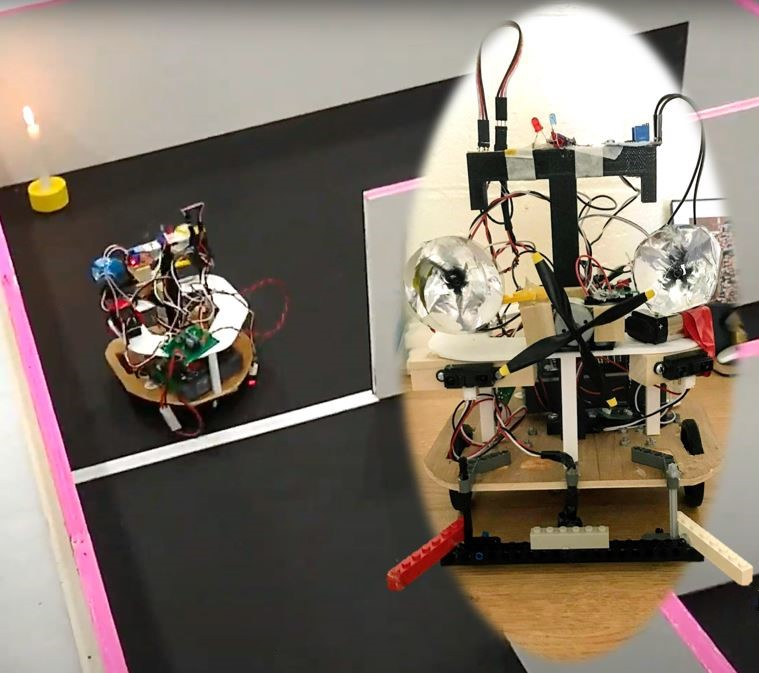
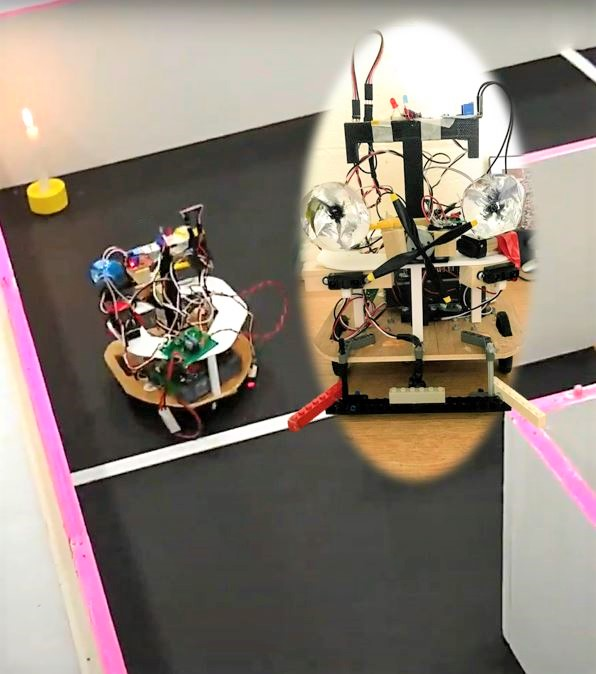
working on inputing image

diff --git a/assets/css/main.css b/assets/css/main.css
@@ -4751,9 +4751,9 @@ body.is-touch #banner {
 		opacity: 0;
 	}
 
-/* Spotlight (style1) */
+/* Spotlight (style12) */
 
-	.spotlight.style1 {
+	.spotlight.style12 {
 		-moz-align-items: -moz-stretch;
 		-webkit-align-items: -webkit-stretch;
 		-ms-align-items: -ms-stretch;
@@ -4775,7 +4775,7 @@ body.is-touch #banner {
 		text-align: left;
 	}
 
-		.spotlight.style1 .content {
+		.spotlight.style12 .content {
 			padding: 7rem 7rem 5rem 7rem ;
 			-moz-align-self: center;
 			-webkit-align-self: center;
@@ -4789,12 +4789,12 @@ body.is-touch #banner {
 			-webkit-flex-shrink: 1;
 			-ms-flex-shrink: 1;
 			flex-shrink: 1;
-			width: 45%;
+			width: 70%;
 			max-width: 64rem;
 			margin: 0 auto;
 		}
 
-		.spotlight.style1 .image {
+		.spotlight.style12 .image {
 			-moz-flex-grow: 0;
 			-webkit-flex-grow: 0;
 			-ms-flex-grow: 0;
@@ -4803,12 +4803,12 @@ body.is-touch #banner {
 			-webkit-flex-shrink: 0;
 			-ms-flex-shrink: 0;
 			flex-shrink: 0;
-			width: 55%;
+			width: 30%;
 			min-width: 25rem;
 			border-radius: 0;
 		}
 
-			.spotlight.style1 .image img {
+			.spotlight.style12 .image img {
 				-moz-object-fit: cover;
 				-webkit-object-fit: cover;
 				-ms-object-fit: cover;
@@ -4828,7 +4828,7 @@ body.is-touch #banner {
 
 		@media screen and (max-width: 1680px) {
 
-			.spotlight.style1 .content {
+			.spotlight.style12 .content {
 				padding: 5rem 5rem 3rem 5rem ;
 			}
 
@@ -4836,7 +4836,7 @@ body.is-touch #banner {
 
 		@media screen and (max-width: 1280px) {
 
-			.spotlight.style1 .content {
+			.spotlight.style12 .content {
 				padding: 4rem 4rem 2rem 4rem ;
 			}
 
@@ -4844,13 +4844,13 @@ body.is-touch #banner {
 
 		@media screen and (max-width: 980px) {
 
-			.spotlight.style1 .content {
+			.spotlight.style12 .content {
 				padding: 3.75rem 3rem 1.75rem 3rem ;
 				width: 50%;
 				min-width: 0;
 			}
 
-			.spotlight.style1 .image {
+			.spotlight.style12 .image {
 				width: 50%;
 				min-width: 0;
 			}
@@ -4859,7 +4859,7 @@ body.is-touch #banner {
 
 		@media screen and (max-width: 736px) {
 
-			.spotlight.style1 .content {
+			.spotlight.style12 .content {
 				padding: 2.5rem 2rem 0.5rem 2rem ;
 			}
 
@@ -4867,7 +4867,7 @@ body.is-touch #banner {
 
 	@media screen and (max-width: 736px) and (orientation: portrait) {
 
-		.spotlight.style1 {
+		.spotlight.style12 {
 			-moz-flex-direction: column-reverse;
 			-webkit-flex-direction: column-reverse;
 			-ms-flex-direction: column-reverse;
@@ -4875,21 +4875,21 @@ body.is-touch #banner {
 			text-align: center !important;
 		}
 
-			.spotlight.style1 .content {
+			.spotlight.style12 .content {
 				width: 100%;
 			}
 
-			.spotlight.style1 .image {
+			.spotlight.style12 .image {
 				width: 100%;
 			}
 
-				.spotlight.style1 .image img {
+				.spotlight.style12 .image img {
 					position: relative;
 				}
 
 	}
 
-		.spotlight.style1.orient-right {
+		.spotlight.style12.orient-right {
 			-moz-flex-direction: row-reverse;
 			-webkit-flex-direction: row-reverse;
 			-ms-flex-direction: row-reverse;
@@ -4898,7 +4898,7 @@ body.is-touch #banner {
 
 	@media screen and (max-width: 736px) and (orientation: portrait) {
 
-		.spotlight.style1.orient-right {
+		.spotlight.style12.orient-right {
 			-moz-flex-direction: column-reverse;
 			-webkit-flex-direction: column-reverse;
 			-ms-flex-direction: column-reverse;
@@ -4907,28 +4907,201 @@ body.is-touch #banner {
 
 	}
 
-		.spotlight.style1.content-align-center {
+		.spotlight.style12.content-align-center {
 			text-align: center;
 		}
 
-		.spotlight.style1.content-align-right {
+		.spotlight.style12.content-align-right {
 			text-align: right;
 		}
 
-		.spotlight.style1.image-position-left .image img {
+		.spotlight.style12.image-position-left .image img {
 			-moz-object-position: left;
 			-webkit-object-position: left;
 			-ms-object-position: left;
 			object-position: left;
 		}
 
+		.spotlight.style12.image-position-right .image img {
+			-moz-object-position: right;
+			-webkit-object-position: right;
+			-ms-object-position: right;
+			object-position: right;
+		}
+/* Spotlight (style1) */
+
+.spotlight.style1 {
+	-moz-align-items: -moz-stretch;
+	-webkit-align-items: -webkit-stretch;
+	-ms-align-items: -ms-stretch;
+	align-items: stretch;
+	display: -moz-flex;
+	display: -webkit-flex;
+	display: -ms-flex;
+	display: flex;
+	-moz-flex-direction: row;
+	-webkit-flex-direction: row;
+	-ms-flex-direction: row;
+	flex-direction: row;
+	-moz-justify-content: -moz-flex-end;
+	-webkit-justify-content: -webkit-flex-end;
+	-ms-justify-content: -ms-flex-end;
+	justify-content: flex-end;
+	position: relative;
+	overflow-x: hidden;
+	text-align: left;
+}
+
+	.spotlight.style1 .content {
+		padding:7rem 7rem 5rem 7rem ;
+		-moz-align-self: center;
+		-webkit-align-self: center;
+		-ms-align-self: center;
+		align-self: center;
+		-moz-flex-grow: 1;
+		-webkit-flex-grow: 1;
+		-ms-flex-grow: 1;
+		flex-grow: 1;
+		-moz-flex-shrink: 1;
+		-webkit-flex-shrink: 1;
+		-ms-flex-shrink: 1;
+		flex-shrink: 1;
+		width: 40%;
+		max-width: 64rem;
+		margin: 0 auto;
+	}
+
+	.spotlight.style1 .image {
+		-moz-flex-grow: 0;
+		-webkit-flex-grow: 0;
+		-ms-flex-grow: 0;
+		flex-grow: 0;
+		-moz-flex-shrink: 0;
+		-webkit-flex-shrink: 0;
+		-ms-flex-shrink: 0;
+		flex-shrink: 0;
+		width: 60%;
+		min-width: 25rem;
+		border-radius: 0;
+	}
+
+		.spotlight.style1 .image img {
+			-moz-object-fit: cover;
+			-webkit-object-fit: cover;
+			-ms-object-fit: cover;
+			object-fit: contain;
+			-moz-object-position: center;
+			-webkit-object-position: center;
+			-ms-object-position: center;
+			object-position: right;
+			position: absolute;
+			top: 0;
+			left: 0;
+			border-radius: 0;
+		}
+
+		@media screen and (max-width: 1680px) {
+
+			.spotlight.style1 .content {
+				padding: 5rem 5rem 3rem 5rem ;
+			}
+	
+		}
+	
+		@media screen and (max-width: 1280px) {
+	
+			.spotlight.style1 .content {
+				padding: 4rem 4rem 2rem 4rem ;
+			}
+	
+		}
+	
+		@media screen and (max-width: 980px) {
+	
+			.spotlight.style1 .content {
+				padding: 3.75rem 3rem 1.75rem 3rem ;
+				width: 50%;
+				min-width: 0;
+			}
+	
+			.spotlight.style1 .image {
+				width: 50%;
+				min-width: 0;
+			}
+	
+		}
+	
+		@media screen and (max-width: 736px) {
+	
+			.spotlight.style1 .content {
+				padding: 2.5rem 2rem 0.5rem 2rem ;
+			}
+	
+		}
+	
+	@media screen and (max-width: 736px) and (orientation: portrait) {
+	
+		.spotlight.style1 {
+			-moz-flex-direction: column-reverse;
+			-webkit-flex-direction: column-reverse;
+			-ms-flex-direction: column-reverse;
+			flex-direction: column-reverse;
+			text-align: center !important;
+		}
+	
+			.spotlight.style1 .content {
+				width: 100%;
+			}
+	
+			.spotlight.style1 .image {
+				width: 100%;
+			}
+	
+				.spotlight.style1 .image img {
+					position: relative;
+				}
+	
+	}
+	
+		.spotlight.style1.orient-right {
+			-moz-flex-direction: row-reverse;
+			-webkit-flex-direction: row-reverse;
+			-ms-flex-direction: row-reverse;
+			flex-direction: row-reverse;
+		}
+	
+	@media screen and (max-width: 736px) and (orientation: portrait) {
+	
+		.spotlight.style1.orient-right {
+			-moz-flex-direction: column-reverse;
+			-webkit-flex-direction: column-reverse;
+			-ms-flex-direction: column-reverse;
+			flex-direction: column-reverse;
+		}
+	
+	}
+	
+		.spotlight.style1.content-align-center {
+			text-align: center;
+		}
+	
+		.spotlight.style1.content-align-right {
+			text-align: right;
+		}
+	
+		.spotlight.style1.image-position-left .image img {
+			-moz-object-position: left;
+			-webkit-object-position: left;
+			-ms-object-position: left;
+			object-position: left;
+		}
+	
 		.spotlight.style1.image-position-right .image img {
 			-moz-object-position: right;
 			-webkit-object-position: right;
 			-ms-object-position: right;
 			object-position: right;
 		}
-
 /* Spotlight (style2) */
 
 	.spotlight.style2 {
@@ -4978,7 +5151,7 @@ body.is-touch #banner {
 				-moz-object-fit: cover;
 				-webkit-object-fit: cover;
 				-ms-object-fit: cover;
-				object-fit: cover;
+				object-fit: contain;
 				-moz-object-position: center;
 				-webkit-object-position: center;
 				-ms-object-position: center;

diff --git a/index.html b/index.html
@@ -34,30 +34,32 @@
 					</section>
 
 				<!-- Two -->
-					<section class="spotlight style1 orient-right content-align-left image-position-center onscroll-image-fade-in" id="first">
+					<section class="spotlight style12 orient-right content-align-left image-position-right onscroll-image-fade-in" id="first">
 						<div class="content">
-							<h2>Trinity International Firefighting Competition</h2>
+							<h2>Trinity International Robot Firefighting Contest</h2>
 							<p>Lorem ipsum dolor sit amet, consectetur adipiscing elit. Morbi id ante sed ex pharetra lacinia sit amet vel massa. Donec facilisis laoreet nulla eu bibendum. Donec ut ex risus. Fusce lorem lectus, pharetra pretium massa et, hendrerit vestibulum odio lorem ipsum dolor sit amet.</p>
 							<ul class="actions stacked">
 								<li><a href="#" class="button">Learn More</a></li>
 							</ul>
 						</div>
-						<div class="image">
-							<img class="fit-picture" img src="images/finalrobotedit.JPG" alt="" >
+						<div class="image" style="--aspect-ratio:819/689;">
+							<img img src="images/finalrobotedit2.JPG" alt="" >
 						</div>
 					</section>
 
 				<!-- Three -->
-					<section class="spotlight style1 orient-left content-align-left image-position-center onscroll-image-fade-in">
+					<section class="spotlight fullscreen style1 orient-left content-align-left image-position-left onscroll-image-fade-in">
 						<div class="content">
-							<h2>Tempus adipiscing</h2>
-							<p>Lorem ipsum dolor sit amet, consectetur adipiscing elit. Morbi id ante sed ex pharetra lacinia sit amet vel massa. Donec facilisis laoreet nulla eu bibendum. Donec ut ex risus. Fusce lorem lectus, pharetra pretium massa et, hendrerit vestibulum odio lorem ipsum dolor sit amet.</p>
+							<h2>Failure Analysis for T-Beam and Rectangular Beam</h2>
+							<p>These are two projects that showcase my use of Fusion 360 Finite Element Analysis as 
+								well as my quantative and conceptual failure analysis skills using principles of mechanics of materials; bending, torsion, and Mohrs Circle. Noteably, 
+								the beam design won the mechanical engineering class competion to create a design with the greatest flexural strength to mass ratio.  </p>
 							<ul class="actions stacked">
 								<li><a href="#" class="button">Learn More</a></li>
 							</ul>
 						</div>
-						<div class="image">
-							<img src="images/spotlight02.jpg" alt="" />
+						<div class="image"><display-inside>
+							<img src="images/TInitialPic2.JPG" alt="" />
 						</div>
 					</section>
 
